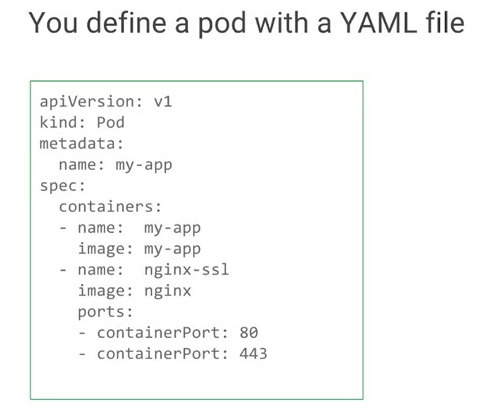
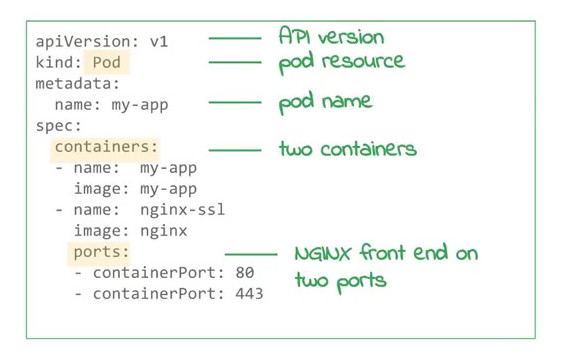
Finish video

Changed region(s): [[0.0299, 0.0306, 0.9581, 0.9778], [0.3593, 0.2444, 0.6587, 0.3361]]

diff --git a/Kubernetes_I/Readme.md b/Kubernetes_I/Readme.md
@@ -11,3 +11,10 @@ _**06/01/2019**_</br>
 ![Kubernetes Pod 2](./images/kube_pod_2.jpg)
 
 ![Kubernetes Pod YAML](./images/kube_pod_yaml.jpg)
+
+- Upload YAML to a Kubernetes Master server, and the master will deploy it on
+  one of the cluster nodes.
+- A deployment ensures that _**N**_ pods are running in a cluster at any given
+  time
+
+![Kubernetes Pod YAML 2](./images/kube_pod_yaml_2.jpg)
